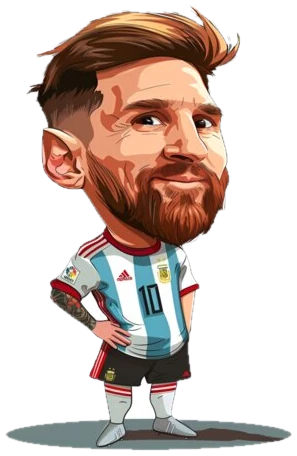
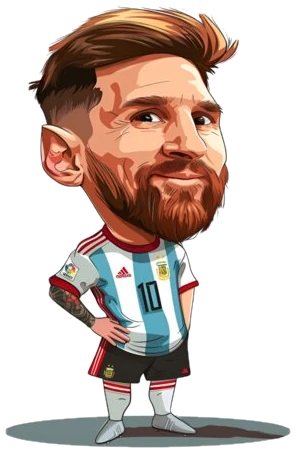
Hero v6: chips above the eyebrow, Messi ground-shadow removed
The 12+ yrs and UX/data/code glass chips open the copy column above the eyebrow. The Messi cutout re-processed with erode/largest-component/dilate masking so the artwork's flat ground-shadow disk is gone while boots and socks stay intact.

Changed region(s): [[0.0912, 0.0, 0.973, 0.9868], [0.0, 0.9251, 0.2128, 0.9559]]

diff --git a/frontend/src/components/hero/HeroFusion.jsx b/frontend/src/components/hero/HeroFusion.jsx
@@ -959,15 +959,10 @@ export default function HeroFusion({ solo = false }) {
           background:linear-gradient(180deg, rgba(16,2,16,0) 0%, rgba(16,2,16,0.35) 60%, rgba(16,2,16,0.85) 100%);
         }
 
-        /* Chips: one glass row near the head */
-        .hxc-chips{
-          position:absolute; right:2%;
-          bottom:calc(var(--hxc-head-w) * 0.08);
-          will-change:transform;
-        }
+        /* Chips: one glass row at the top of the copy column */
+        .hxc-chips{ margin-bottom:14px; }
         .hxc-chips-row{
-          display:flex; gap:10px;
-          animation:hxc-floaty 6s ease-in-out 0.7s infinite;
+          display:flex; flex-wrap:wrap; gap:10px;
         }
         .hxc-chip-card{
           display:inline-flex; align-items:center; gap:8px;
@@ -1287,26 +1282,6 @@ export default function HeroFusion({ solo = false }) {
               </motion.div>
 
 
-              {/* Chips: one glass row, below-right of the head */}
-              <motion.div
-                className="hxc-chips"
-                style={{ x: chipX, y: chipY, z: 120 }}
-                aria-hidden="true"
-              >
-                <motion.div {...entrance(0.5, 10, 0.5)}>
-                  <div className="hxc-chips-row">
-                    <span className="hxc-chip-card">
-                      <span className="hxc-dot hxc-dot-m" />
-                      12+ yrs
-                    </span>
-                    <span className="hxc-chip-card">
-                      <span className="hxc-dot hxc-dot-b" />
-                      UX · data · code
-                    </span>
-                  </div>
-                </motion.div>
-              </motion.div>
-
             </div>
 
             {/* Foreground copy */}
@@ -1314,6 +1289,24 @@ export default function HeroFusion({ solo = false }) {
               className="hxc-copy"
               style={{ x: copyX, y: copyY, z: 50 }}
             >
+              {/* Glass chips, above the eyebrow */}
+              <motion.div
+                className="hxc-chips"
+                aria-hidden="true"
+                {...entrance(0.2, 10, 0.5)}
+              >
+                <div className="hxc-chips-row">
+                  <span className="hxc-chip-card">
+                    <span className="hxc-dot hxc-dot-m" />
+                    12+ yrs
+                  </span>
+                  <span className="hxc-chip-card">
+                    <span className="hxc-dot hxc-dot-b" />
+                    UX · data · code
+                  </span>
+                </div>
+              </motion.div>
+
               <motion.p className="hxc-eyebrow" {...entrance(0.26, 14)}>
                 SENIOR UX LEAD · ENTERPRISE, FINTECH &amp; ANALYTICS
                 <span className="hxc-cursor" aria-hidden="true">▍</span>
